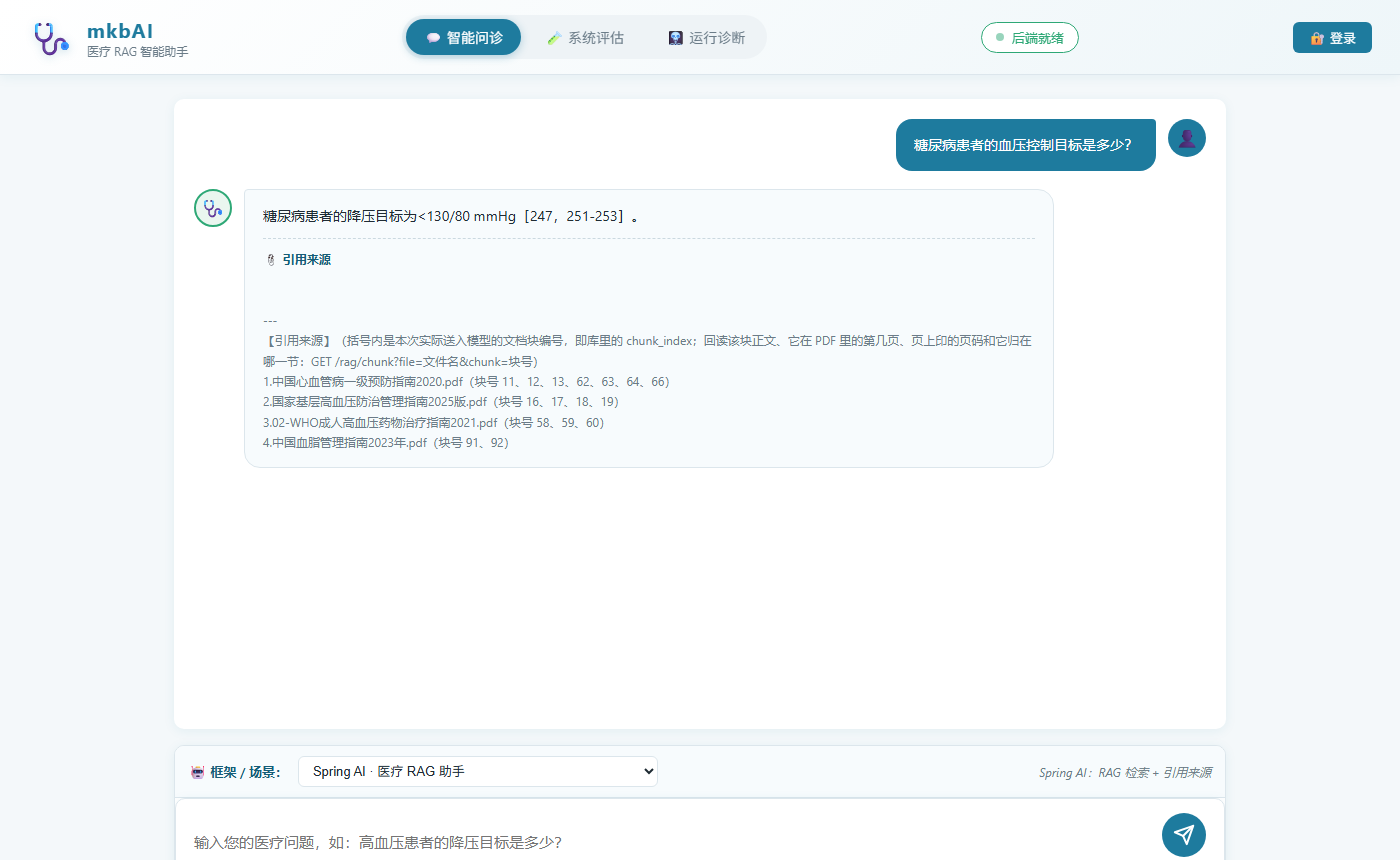
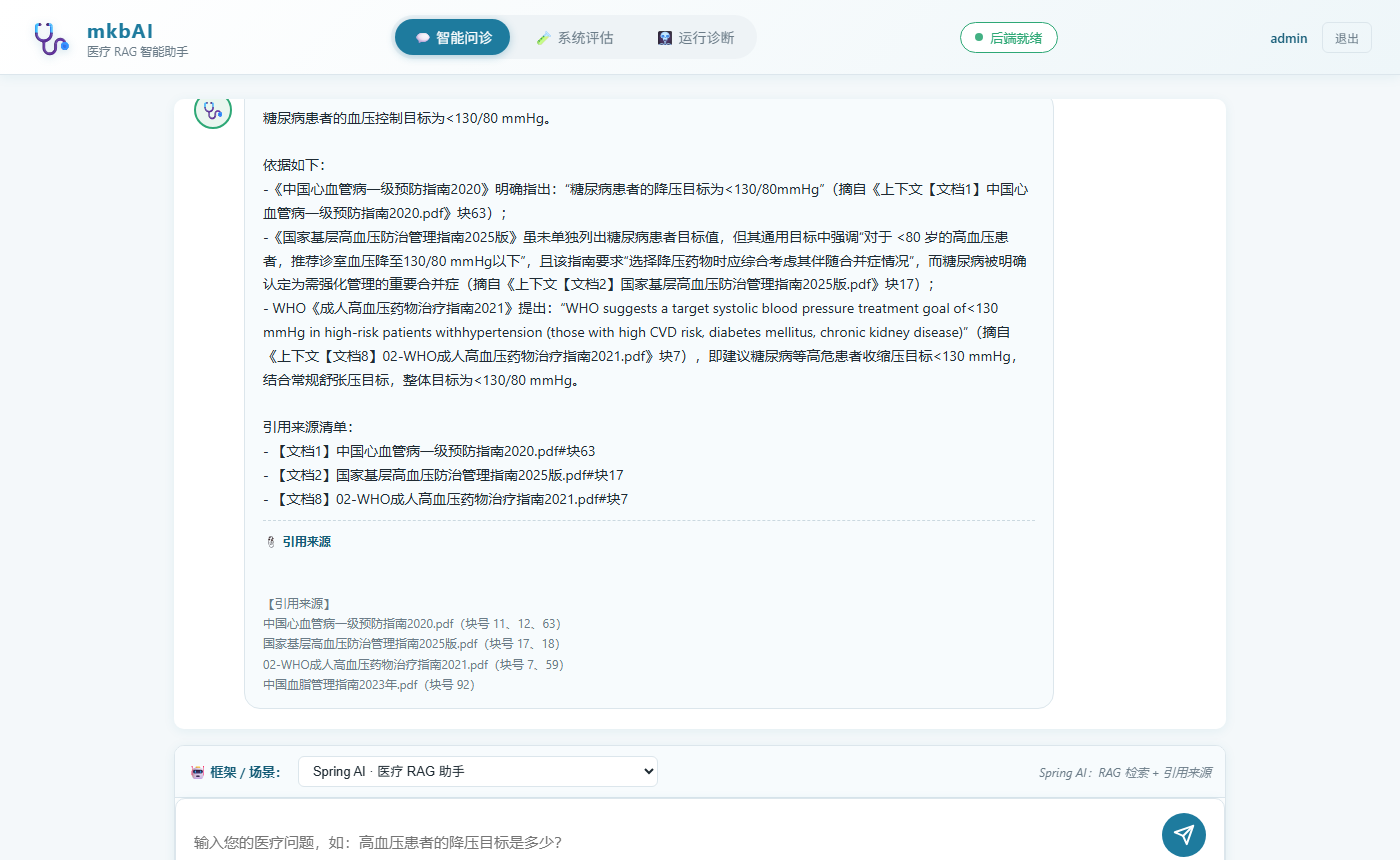
docs(web): 问诊图换成真链路那一次；提示词第 3 条示例改成抄不出模板字
截图这次是 2026-11-06 真跑出来的：一次 GET /chat/stream，3 次向量化 + 3 次重排 + 1 次生成。
答案里「摘自《上下文【文档1】…》」那串模板字是提示词示例没写严实带出来的，规则改成只让取
# 号两边的文件名和块号，并明说这些字不许进答案；图保留原样，caption 里写清了。

diff --git a/src/main/java/org/ragai/controller/ChatController.java b/src/main/java/org/ragai/controller/ChatController.java
@@ -44,10 +44,11 @@ public class ChatController {
             必须遵守：
             1. 不得编造指南外的医学事实；不确定时明确说明。
             2. 不得给出个体化诊断或用药方案，仅提供循证医学依据。
-            3. 每一条结论/依据后面必须用括号标注出处，格式：（摘自《上下文【文档N】头部给出的文件名》块号 X）。
-               文件名和块号一律逐字照抄那个头部，不得自拟、不得凭记忆换成别的指南名。
-               上下文里的每个块都长这样一行：【文档1】中国心血管病一级预防指南2020.pdf#块11，
-               对号入座即可；写不出这个头部的名字就说明该结论没有出处，应当删掉或明确说明不确定。
+            3. 每一条结论/依据后面用括号标出处，只写「文件名」和「块号」两项：（摘自《文件名.pdf》块N）。
+               这两个值从上下文里每个块开头那一行取，那一行长这样：【文档1】中国心血管病一级预防指南2020.pdf#块11
+               —— # 号左边是文件名，右边是块号。
+               只许取这两项：不得自拟或凭记忆换成别的指南名，也不要把「【文档1】」「上下文」这些模板字本身写进答案。
+               取不到这两项，就说明该结论没有出处，应当删掉它或明确说明不确定。
             4. 患者隐私（姓名/身份证/病历号）不得在回复中出现。
             5. 回复结构：先给结论，再列带标注的依据，最后附引用来源清单。
             """;
